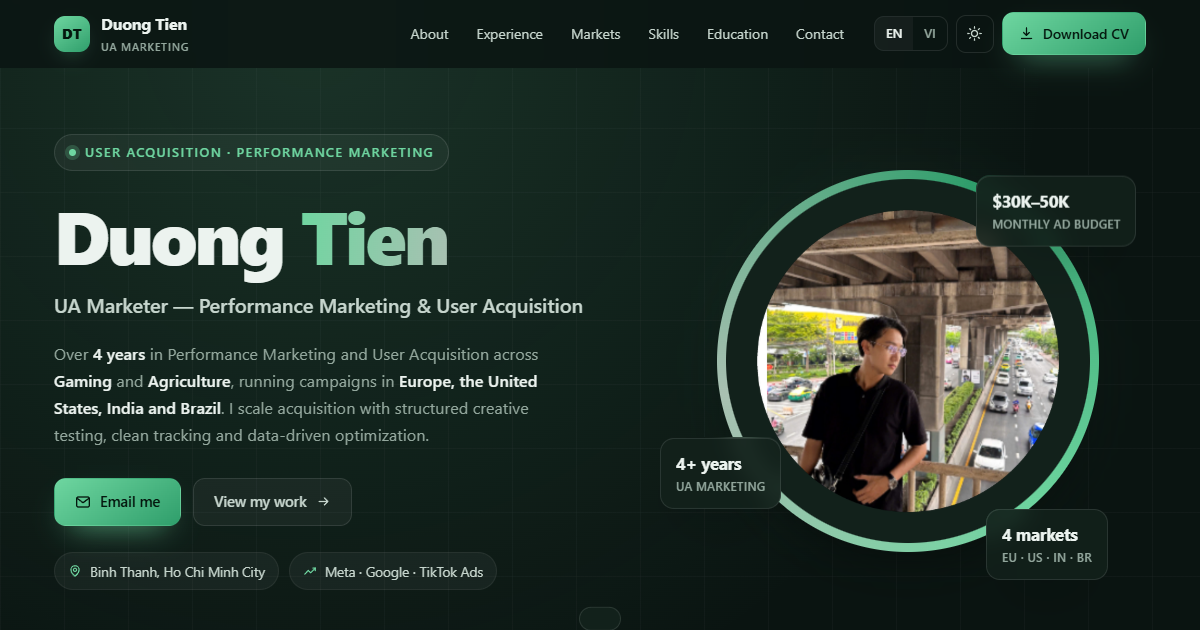
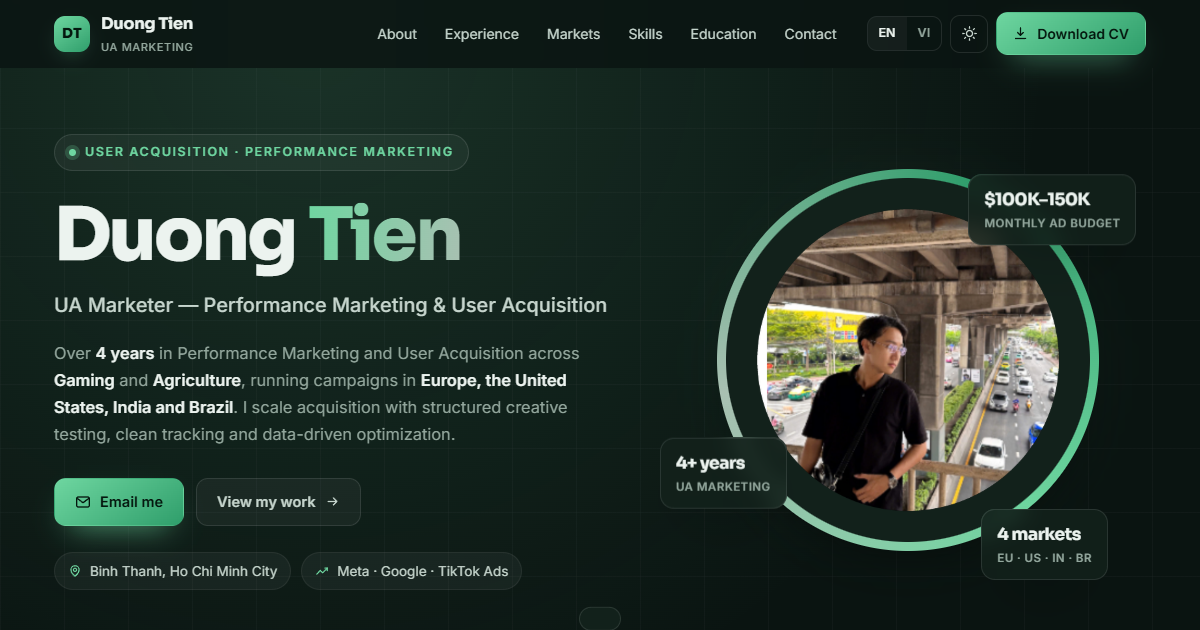
Update monthly ad budget to USD 100,000-150,000

diff --git a/index.html b/index.html
@@ -515,7 +515,7 @@ footer{border-top:1px solid var(--border-soft);padding:30px 0;margin-top:20px}
         <img src="assets/avatar.png" alt="Portrait of Duong Tien" width="560" height="560" loading="eager" />
       </div>
       <div class="float-card fc-1">
-        <div class="k">$30K–50K</div>
+        <div class="k">$100K–150K</div>
         <div class="v" data-i18n="fc.budget">Monthly ad budget</div>
       </div>
       <div class="float-card fc-2">
@@ -534,7 +534,7 @@ footer{border-top:1px solid var(--border-soft);padding:30px 0;margin-top:20px}
 <section class="stats" aria-label="Key numbers">
   <div class="wrap stats-grid reveal">
     <div class="stat"><div class="num" data-count="4" data-suffix="+">4+</div><div class="lbl" data-i18n="stat.years">Years in performance marketing</div></div>
-    <div class="stat"><div class="num" data-count="50" data-prefix="$" data-suffix="K">$50K</div><div class="lbl" data-i18n="stat.budget">Peak monthly ad budget</div></div>
+    <div class="stat"><div class="num" data-count="150" data-prefix="$" data-suffix="K">$150K</div><div class="lbl" data-i18n="stat.budget">Peak monthly ad budget</div></div>
     <div class="stat"><div class="num" data-count="6" data-prefix="$" data-suffix="K">$6K</div><div class="lbl" data-i18n="stat.daily">Daily ad spend managed</div></div>
     <div class="stat"><div class="num" data-count="1.2" data-decimals="1" data-suffix="<span class='u'>B₫</span>">1.2B₫</div><div class="lbl" data-i18n="stat.revenue">Peak monthly revenue supported</div></div>
     <div class="stat"><div class="num">10–15</div><div class="lbl" data-i18n="stat.creatives">Video creatives per week</div></div>
@@ -589,12 +589,12 @@ footer{border-top:1px solid var(--border-soft);padding:30px 0;margin-top:20px}
             <span class="period">06/2025 — 06/2026</span>
           </div>
           <div class="impact">
-            <span data-i18n="j1.i1">USD 30,000–50,000 / month</span>
+            <span data-i18n="j1.i1">USD 100,000–150,000 / month</span>
             <span data-i18n="j1.i2">Meta · Google · TikTok Ads</span>
             <span data-i18n="j1.i3">AppsFlyer · GA4 attribution</span>
           </div>
           <ul class="bullets" data-i18n-html="j1.bullets">
-            <li>Executed and optimized User Acquisition campaigns across <b>Meta Ads, Google Ads and TikTok Ads</b>, managing monthly advertising budgets ranging from <b>USD 30,000 to USD 50,000</b>.</li>
+            <li>Executed and optimized User Acquisition campaigns across <b>Meta Ads, Google Ads and TikTok Ads</b>, managing monthly advertising budgets ranging from <b>USD 100,000 to USD 150,000</b>.</li>
             <li>Collaborated with the Product and Creative teams to map the <b>customer journey</b>, identify <b>winning creatives</b> and scale high-performing campaigns.</li>
             <li>Built and iterated <b>campaign structures, audiences, bidding strategies</b> and creatives to validate acquisition channels ahead of launch.</li>
             <li>Tracked and optimized early-funnel metrics including <b>CPI, CPA, CTR, CPM, CVR, activation rate, retention</b> and user quality.</li>
@@ -876,8 +876,8 @@ footer{border-top:1px solid var(--border-soft);padding:30px 0;margin-top:20px}
       "exp.tag":"Work Experience","exp.title":"4 years of hands-on User Acquisition",
       "exp.sub":"From agriculture e-commerce in Vietnam to global gaming and sports apps — same loop: test, read the data, scale what works.",
       "j1.role":"UA Marketing","j1.note":"(Pre-launch)",
-      "j1.i1":"USD 30,000–50,000 / month","j1.i2":"Meta · Google · TikTok Ads","j1.i3":"AppsFlyer · GA4 attribution",
-      "j1.bullets":"<li>Executed and optimized User Acquisition campaigns across <b>Meta Ads, Google Ads and TikTok Ads</b>, managing monthly advertising budgets ranging from <b>USD 30,000 to USD 50,000</b>.</li><li>Collaborated with the Product and Creative teams to map the <b>customer journey</b>, identify <b>winning creatives</b> and scale high-performing campaigns.</li><li>Built and iterated <b>campaign structures, audiences, bidding strategies</b> and creatives to validate acquisition channels ahead of launch.</li><li>Tracked and optimized early-funnel metrics including <b>CPI, CPA, CTR, CPM, CVR, activation rate, retention</b> and user quality.</li><li>Worked with Product and Development teams to improve <b>onboarding and conversion flows</b> using campaign and in-app behavior insights.</li><li>Used <b>AppsFlyer, GA4</b> and attribution data to monitor acquisition performance and inform scaling decisions.</li>",
+      "j1.i1":"USD 100,000–150,000 / month","j1.i2":"Meta · Google · TikTok Ads","j1.i3":"AppsFlyer · GA4 attribution",
+      "j1.bullets":"<li>Executed and optimized User Acquisition campaigns across <b>Meta Ads, Google Ads and TikTok Ads</b>, managing monthly advertising budgets ranging from <b>USD 100,000 to USD 150,000</b>.</li><li>Collaborated with the Product and Creative teams to map the <b>customer journey</b>, identify <b>winning creatives</b> and scale high-performing campaigns.</li><li>Built and iterated <b>campaign structures, audiences, bidding strategies</b> and creatives to validate acquisition channels ahead of launch.</li><li>Tracked and optimized early-funnel metrics including <b>CPI, CPA, CTR, CPM, CVR, activation rate, retention</b> and user quality.</li><li>Worked with Product and Development teams to improve <b>onboarding and conversion flows</b> using campaign and in-app behavior insights.</li><li>Used <b>AppsFlyer, GA4</b> and attribution data to monitor acquisition performance and inform scaling decisions.</li>",
       "j2.role":"UA Marketing",
       "j2.i1":"USD 6,000 / day spend","j2.i2":"Europe · US · India · Brazil","j2.i3":"10–15 video creatives / week",
       "j2.bullets":"<li>Managed <b>Meta Ads campaigns</b> for slot-game products across Europe, India, the United States and Brazil.</li><li>Managed daily advertising spend of up to <b>USD 6,000</b> while maintaining performance targets across multiple markets.</li><li>Analyzed and optimized <b>CPA, ROAS, CTR, CPM and conversion rate</b> through audience, bidding, placement and creative iterations.</li><li>Led <b>A/B testing</b> across creative concepts, audiences and campaign structures to identify scalable winning combinations.</li><li>Coordinated production of <b>10–15 video creatives per week</b> and localized ad concepts based on market-level performance insights.</li><li>Continuously optimized campaign structure and creative strategy to improve <b>User Acquisition efficiency</b> and support scaling.</li>",
@@ -928,8 +928,8 @@ footer{border-top:1px solid var(--border-soft);padding:30px 0;margin-top:20px}
       "exp.tag":"Kinh nghiệm làm việc","exp.title":"4 năm làm User Acquisition thực chiến",
       "exp.sub":"Từ e-commerce nông nghiệp tại Việt Nam đến app gaming và bóng đá toàn cầu — vẫn một vòng lặp: test, đọc dữ liệu, scale cái hiệu quả.",
       "j1.role":"UA Marketing","j1.note":"(Giai đoạn tiền launch)",
-      "j1.i1":"30.000–50.000 USD / tháng","j1.i2":"Meta · Google · TikTok Ads","j1.i3":"Attribution qua AppsFlyer · GA4",
-      "j1.bullets":"<li>Triển khai và tối ưu chiến dịch User Acquisition trên <b>Meta Ads, Google Ads và TikTok Ads</b>, quản lý ngân sách quảng cáo hằng tháng từ <b>30.000 đến 50.000 USD</b>.</li><li>Phối hợp với team Product và Creative để vẽ <b>customer journey</b>, xác định <b>creative thắng</b> và scale các campaign hiệu quả.</li><li>Xây dựng và liên tục điều chỉnh <b>cấu trúc campaign, audience, chiến lược bidding</b> và creative để kiểm chứng các kênh acquisition trước khi launch.</li><li>Theo dõi và tối ưu nhóm chỉ số đầu phễu: <b>CPI, CPA, CTR, CPM, CVR, activation rate, retention</b> và chất lượng người dùng.</li><li>Làm việc cùng team Product và Development để cải thiện <b>luồng onboarding và chuyển đổi</b> dựa trên insight từ campaign và hành vi trong app.</li><li>Sử dụng <b>AppsFlyer, GA4</b> và dữ liệu attribution để theo dõi hiệu quả acquisition và ra quyết định scale.</li>",
+      "j1.i1":"100.000–150.000 USD / tháng","j1.i2":"Meta · Google · TikTok Ads","j1.i3":"Attribution qua AppsFlyer · GA4",
+      "j1.bullets":"<li>Triển khai và tối ưu chiến dịch User Acquisition trên <b>Meta Ads, Google Ads và TikTok Ads</b>, quản lý ngân sách quảng cáo hằng tháng từ <b>100.000 đến 150.000 USD</b>.</li><li>Phối hợp với team Product và Creative để vẽ <b>customer journey</b>, xác định <b>creative thắng</b> và scale các campaign hiệu quả.</li><li>Xây dựng và liên tục điều chỉnh <b>cấu trúc campaign, audience, chiến lược bidding</b> và creative để kiểm chứng các kênh acquisition trước khi launch.</li><li>Theo dõi và tối ưu nhóm chỉ số đầu phễu: <b>CPI, CPA, CTR, CPM, CVR, activation rate, retention</b> và chất lượng người dùng.</li><li>Làm việc cùng team Product và Development để cải thiện <b>luồng onboarding và chuyển đổi</b> dựa trên insight từ campaign và hành vi trong app.</li><li>Sử dụng <b>AppsFlyer, GA4</b> và dữ liệu attribution để theo dõi hiệu quả acquisition và ra quyết định scale.</li>",
       "j2.role":"UA Marketing",
       "j2.i1":"6.000 USD / ngày","j2.i2":"Châu Âu · Mỹ · Ấn Độ · Brazil","j2.i3":"10–15 video creative / tuần",
       "j2.bullets":"<li>Quản lý <b>campaign Meta Ads</b> cho sản phẩm slot game tại châu Âu, Ấn Độ, Mỹ và Brazil.</li><li>Quản lý chi tiêu quảng cáo hằng ngày lên tới <b>6.000 USD</b> trong khi vẫn giữ đúng các chỉ tiêu hiệu quả ở nhiều thị trường.</li><li>Phân tích và tối ưu <b>CPA, ROAS, CTR, CPM và conversion rate</b> thông qua audience, bidding, placement và creative.</li><li>Chủ trì <b>A/B testing</b> trên concept creative, audience và cấu trúc campaign để tìm ra tổ hợp có thể scale.</li><li>Điều phối sản xuất <b>10–15 video creative mỗi tuần</b> và localize concept quảng cáo theo insight hiệu quả của từng thị trường.</li><li>Liên tục tối ưu cấu trúc campaign và chiến lược creative để nâng cao <b>hiệu quả User Acquisition</b> và hỗ trợ scale.</li>",

diff --git a/README.md b/README.md
@@ -42,7 +42,7 @@ portfolio/
 - Song ngữ **EN / VI** — bấm nút EN|VI trên thanh menu, lựa chọn được ghi nhớ trong trình duyệt.
 - Chuyển **sáng / tối** bằng nút hình mặt trời, cũng được ghi nhớ.
 - Thanh tiến trình đọc trang, menu dính, highlight mục đang xem, hiệu ứng xuất hiện khi cuộn.
-- Số liệu đếm động (4+ năm, $50K/tháng, $6K/ngày, 1.2B₫...).
+- Số liệu đếm động (4+ năm, $150K/tháng, $6K/ngày, 1.2B₫...).
 - Nút **Copy** cho email và số điện thoại, có thông báo nhỏ xác nhận.
 - Nút tải CV (PDF) ở menu, phần Contact và footer.
 - Responsive: desktop, tablet, mobile (menu thu gọn).
